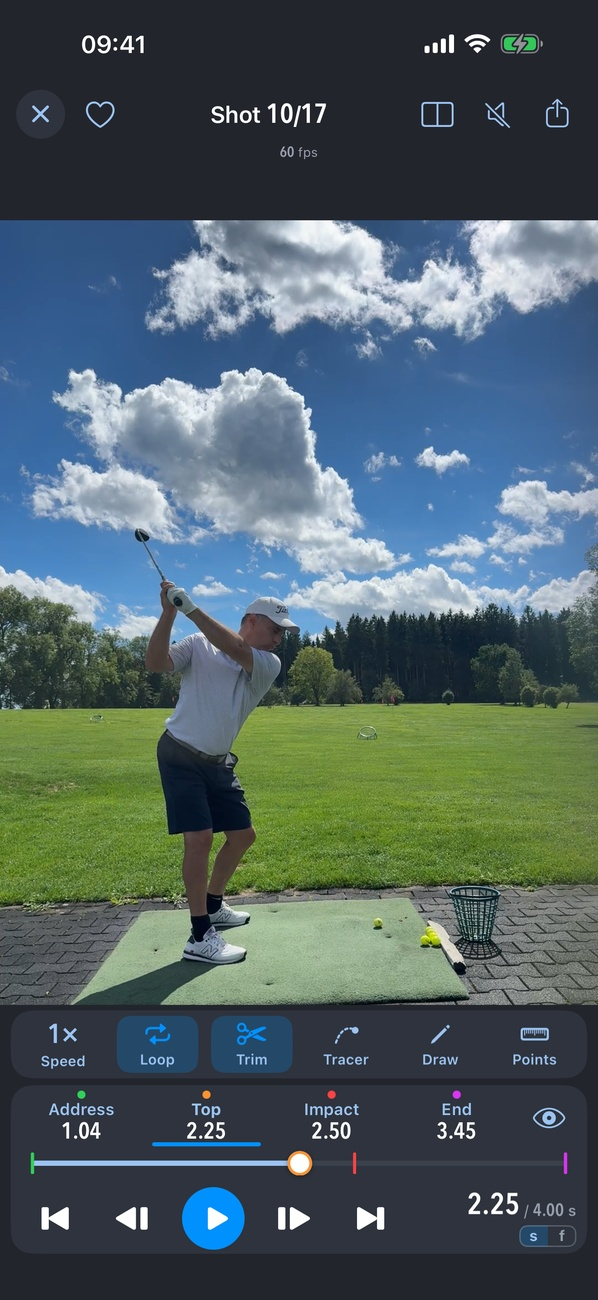
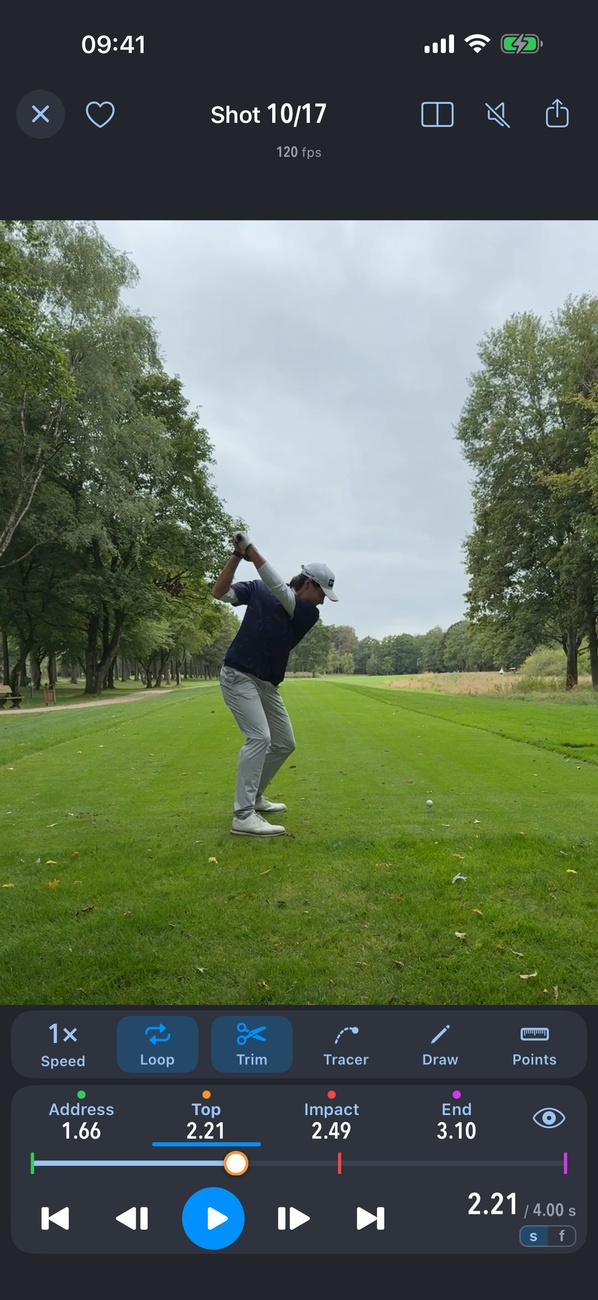
Swing pictures with a driver swing on the golf course: swing-tracer, swing-preview and the tracer detail
The three swing-player images are retaken on the 8.5 build (iPhone 17 Pro Max simulator, status bar 9:41) with a
down-the-line driver swing off a golf-course tee (clip of 3 September) instead of the driving-range clip: the player at
the top of the backswing, and the finish with the Tracer tool open and the computed flight drawn as a red line from the
ball. Same file names, pixel sizes and formats; the three get the cache buster ?v=3. The two tracer alt texts and the
caption of the tracer detail follow the new picture: a golf-course tee and a driver instead of the range mat and an
8 iron, and the line is red now (the driver's tracer colour) instead of orange.

diff --git a/index.html b/index.html
@@ -273,8 +273,8 @@
                         <a class="more" href="#swing">More on swing video</a>
                     </div>
                     <figure class="hero-figure hl-media">
-                        <img class="hero-photo portrait" src="images/features-tracer-detail.jpg?v=2" alt="Swing video with the ball tracer: a golfer in the finish on a driving-range mat, a computed flight drawn as an orange line from the ball into the sky" width="780" height="916" loading="lazy" decoding="async"/>
-                        <figcaption>The Tracer tool: 8 iron at the range, the line is the computed flight</figcaption>
+                        <img class="hero-photo portrait" src="images/features-tracer-detail.jpg?v=3" alt="Swing video with the ball tracer: a golfer in the finish on a golf-course tee, a computed flight drawn as a red line from the ball into the sky" width="780" height="916" loading="lazy" decoding="async"/>
+                        <figcaption>The Tracer tool: a driver off the tee, the line is the computed flight</figcaption>
                     </figure>
                 </article>
 
@@ -364,7 +364,7 @@
                     </div>
                     <div class="phone-pair hl-media">
                         <figure>
-                            <img src="images/swing-tracer.jpg?v=2" alt="TrajectoryX swing player with the ball tracer: a computed ball flight drawn over a swing at the driving range, the Tracer tool open, and the positions Address, Top, Impact and End as tabs over the timeline below" width="780" height="1696" loading="lazy" decoding="async"/>
+                            <img src="images/swing-tracer.jpg?v=3" alt="TrajectoryX swing player with the ball tracer: a computed ball flight drawn over a driver swing on the golf course, the Tracer tool open, and the positions Address, Top, Impact and End as tabs over the timeline below" width="780" height="1696" loading="lazy" decoding="async"/>
                             <figcaption>Every shot gets its clip — here with the tracer</figcaption>
                         </figure>
                     </div>
@@ -933,11 +933,11 @@
         <div class="visual reveal" style="--delay:100ms">
             <div style="display:flex; gap:1rem; justify-content:center; align-items:flex-start; flex-wrap:wrap;">
                 <figure class="phone" style="flex:1 1 200px; max-width:260px;">
-                    <img src="images/swing-preview.jpg?v=2" alt="TrajectoryX swing player: a golfer at the top of the backswing, the video edge to edge, with the positions Address, Top, Impact and End as tabs over the timeline below" width="598" height="1300" loading="lazy" decoding="async"/>
+                    <img src="images/swing-preview.jpg?v=3" alt="TrajectoryX swing player: a golfer at the top of the backswing, the video edge to edge, with the positions Address, Top, Impact and End as tabs over the timeline below" width="598" height="1300" loading="lazy" decoding="async"/>
                     <figcaption>Auto-detected: Address · Top · Impact · End</figcaption>
                 </figure>
                 <figure class="phone" style="flex:1 1 200px; max-width:260px;">
-                    <img src="images/swing-tracer.jpg?v=2" alt="TrajectoryX swing player with the ball tracer: a computed ball flight drawn over a swing at the driving range, the Tracer tool open, and the positions Address, Top, Impact and End as tabs over the timeline below" width="780" height="1696" loading="lazy" decoding="async"/>
+                    <img src="images/swing-tracer.jpg?v=3" alt="TrajectoryX swing player with the ball tracer: a computed ball flight drawn over a driver swing on the golf course, the Tracer tool open, and the positions Address, Top, Impact and End as tabs over the timeline below" width="780" height="1696" loading="lazy" decoding="async"/>
                     <figcaption>Ball tracer in your own video</figcaption>
                 </figure>
             </div>
